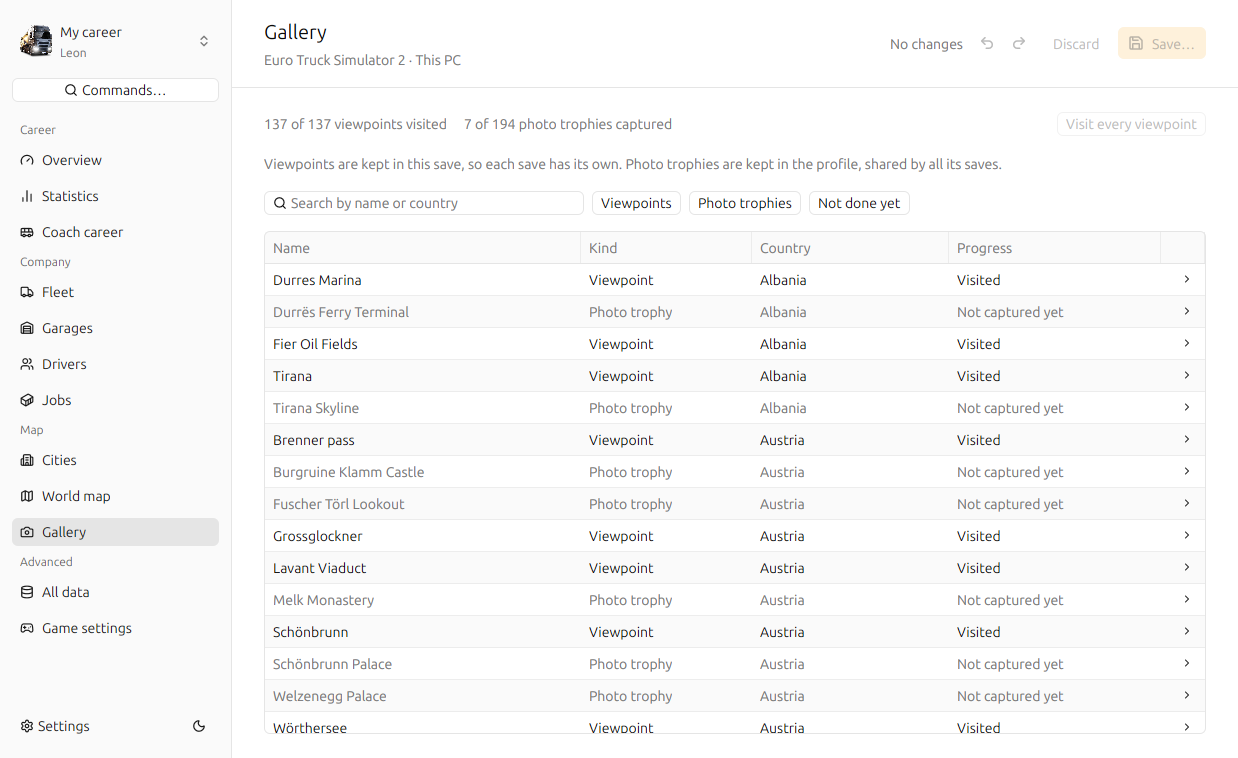
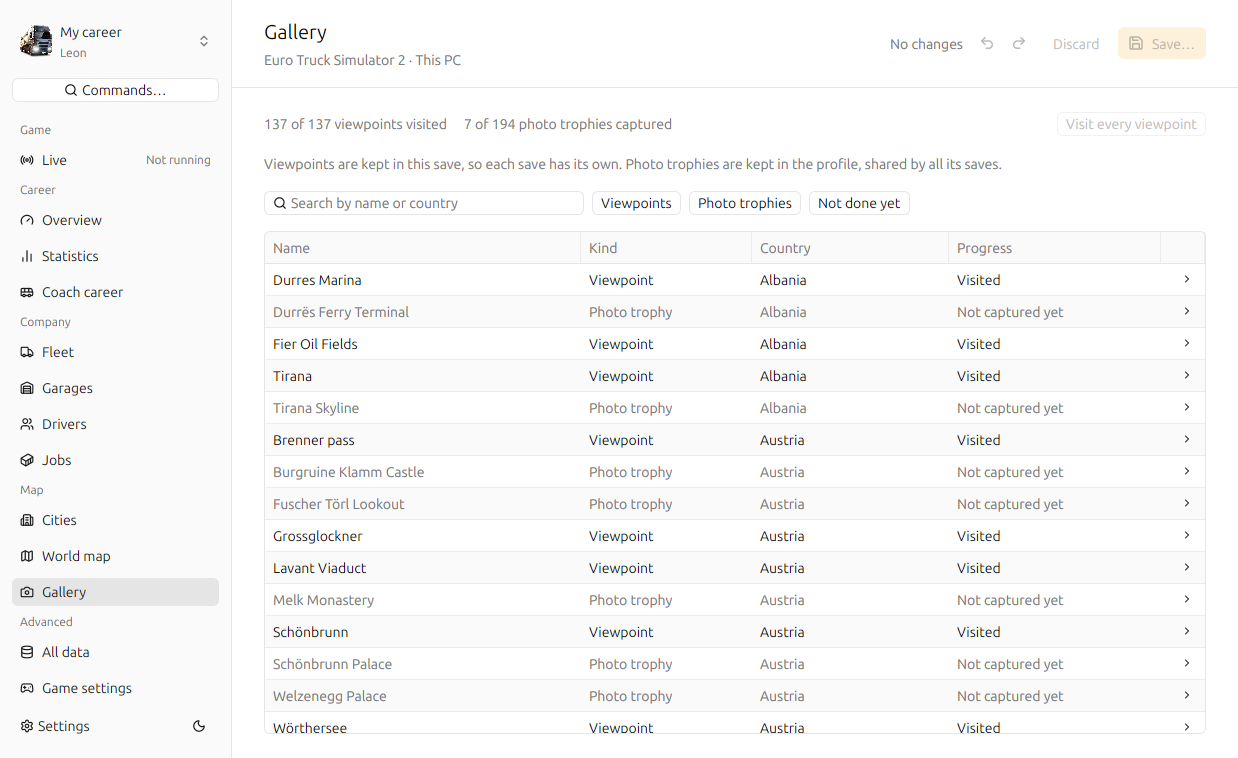
docs: README: Live with a recording, and every picture retaken
- A Live section with a recording made in the game by the owner (the one picture not from scripts/screenshots.sh)
- The other pictures retaken: Live in the sidebar, and World map's roads as lines

diff --git a/README.md b/README.md
@@ -17,6 +17,15 @@ The editor tells you when a newer version is out: when it starts, it asks GitHub
 
 ## What it does
 
+### Live: your drive as it happens (experimental)
+
+- **The game on the map while you play**: where you are, the way you're heading, the road you've driven this session behind you, and a flag on your job's destination.
+- **Your drive in numbers**: speed against the limit, gear, fuel and range, rest, the game's clock, and your vehicle's wear.
+- **Your job** along the foot of the map, with how far is left and when it's due; **this session** in totals (driven, earned, XP, fines and tolls) with what just happened.
+- It works through a small plugin for the game's own SDK, which the editor adds to the game's folder when you ask and removes again at any time. It only reads, and nothing leaves your PC. Both games, in each one's units.
+
+<img alt="Live while driving in American Truck Simulator: the map follows the player, with speed over the limit, fuel, wear and the session's fines in cards over it" src="docs/screenshots/live.gif">
+
 ### Finding your saves
 
 - Pick the game first (Euro Truck Simulator 2 or American Truck Simulator, each with its logo from your install), then the profile.
